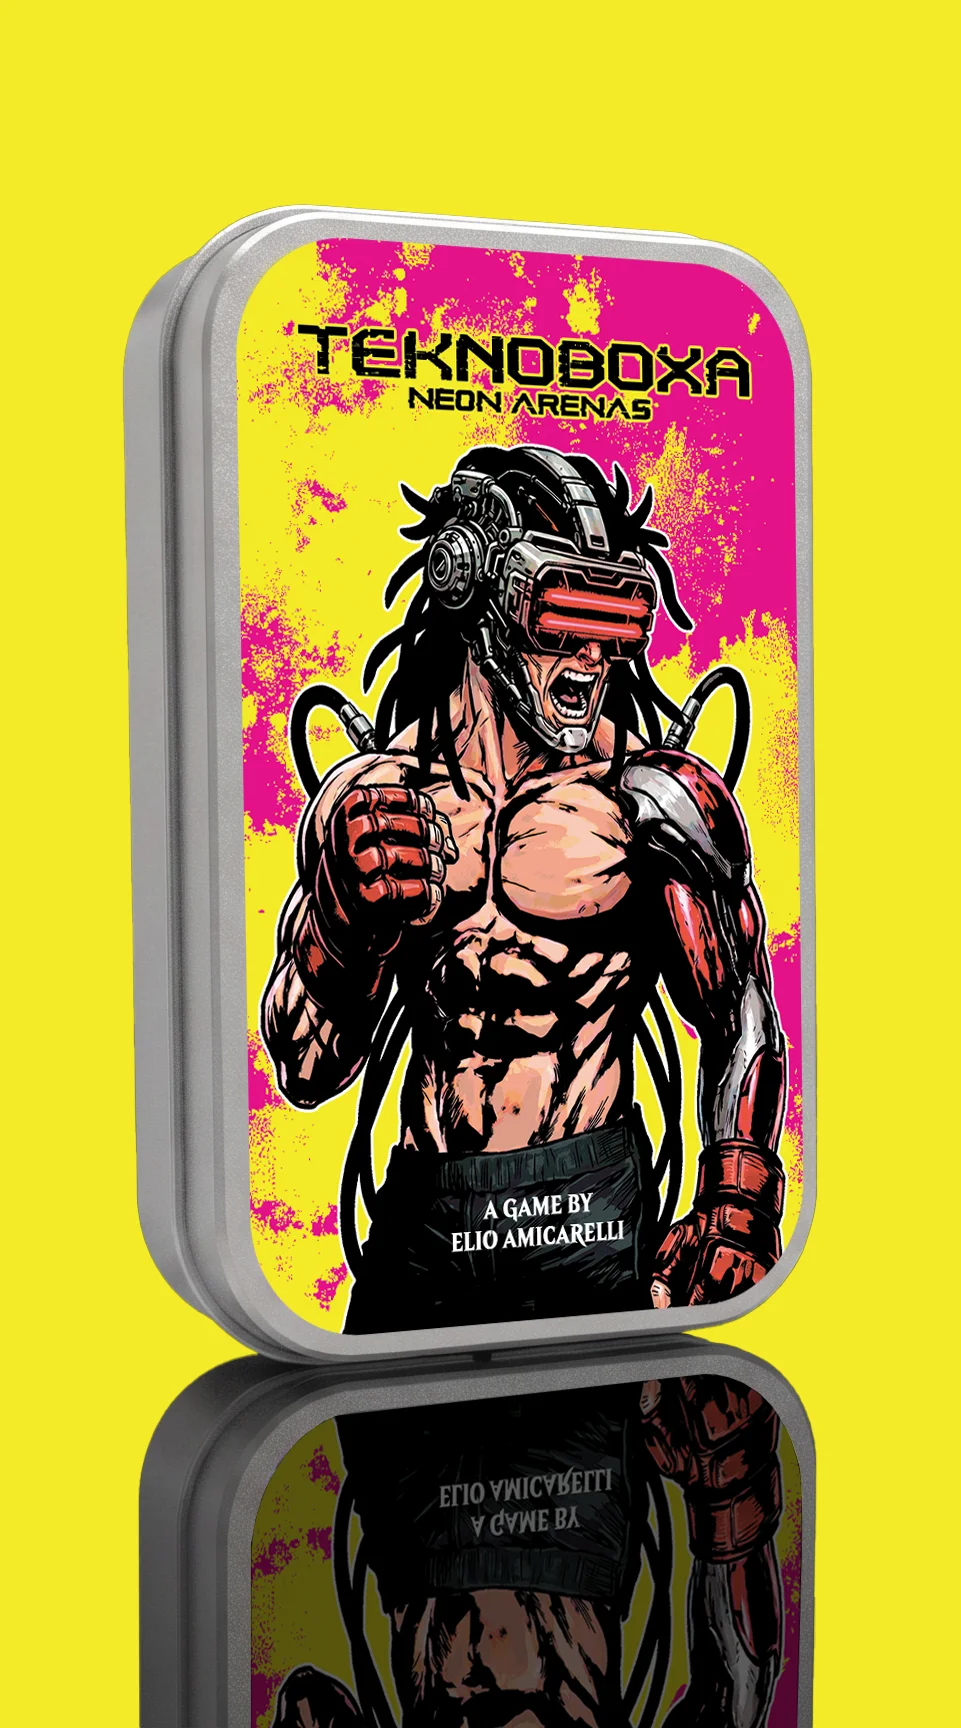
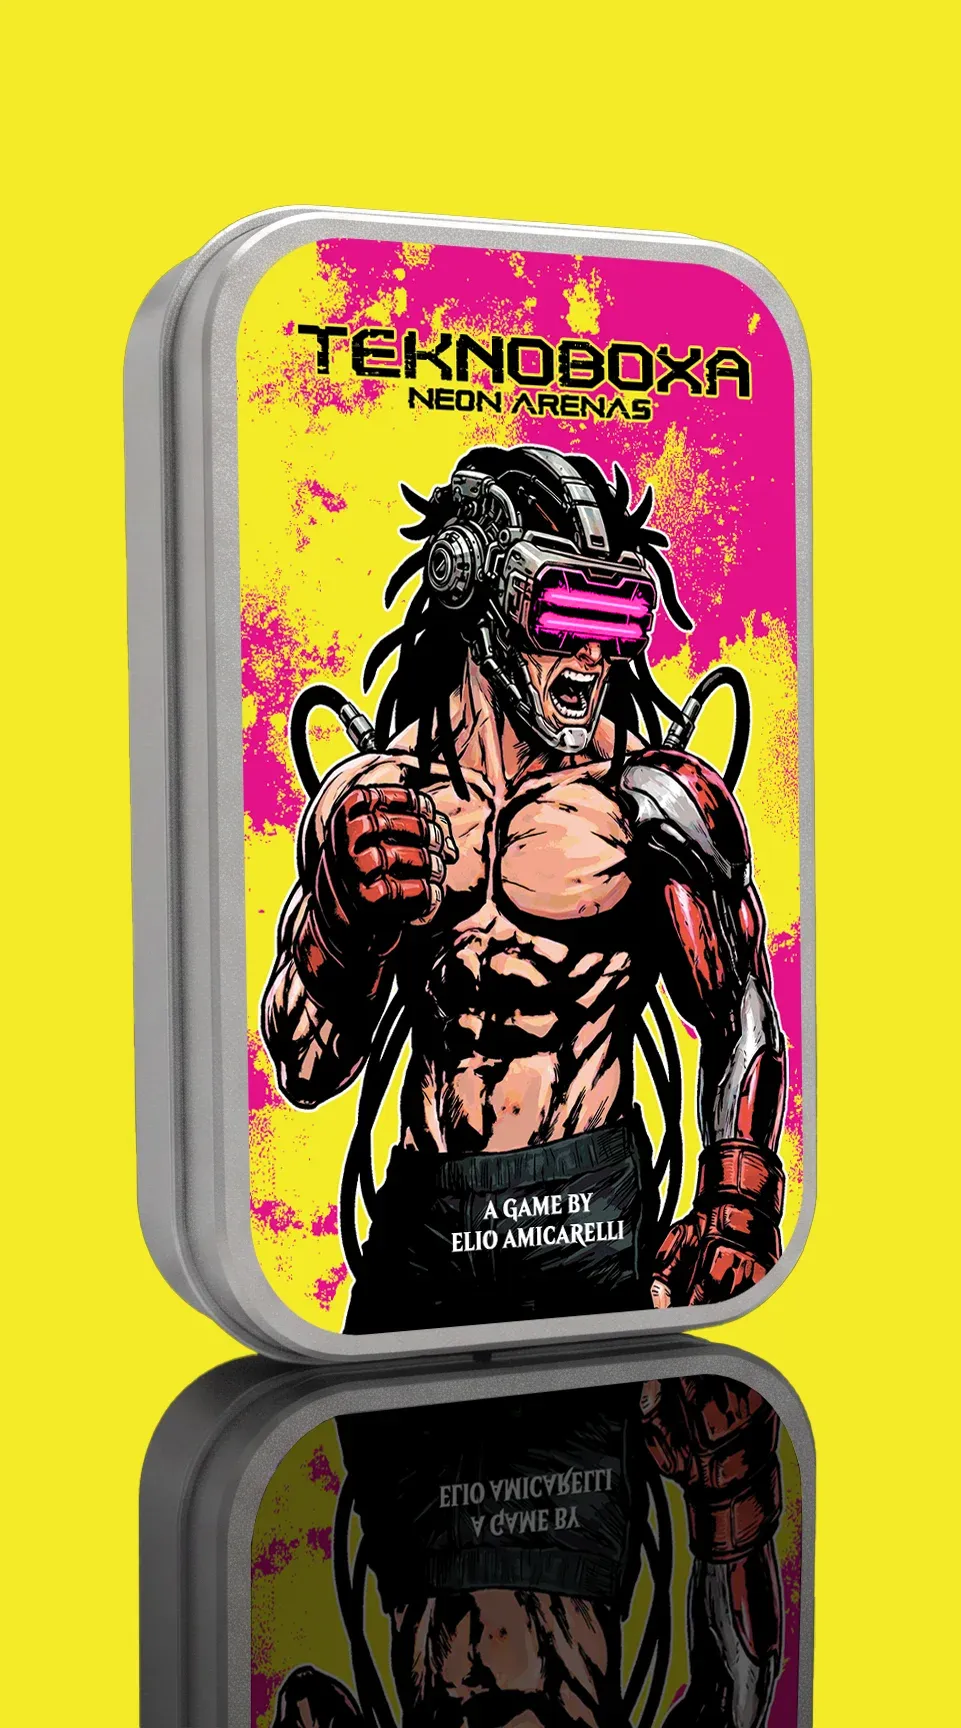
cpr

diff --git a/index.html b/index.html
@@ -164,7 +164,7 @@
 
             <!-- Footer Landmark -->
             <footer class="site-footer">
-                <div class="footer-left">© 2026 Third Mystic. All Rights Reserved.</div>
+                <div class="footer-left">Teknoboxa is Copyright 2026 by Elio Amicarelli. All Rights Reserved.</div>
                 <div class="footer-right">
                     <a href="privacy-policy.html">Privacy Policy</a>
                 </div>